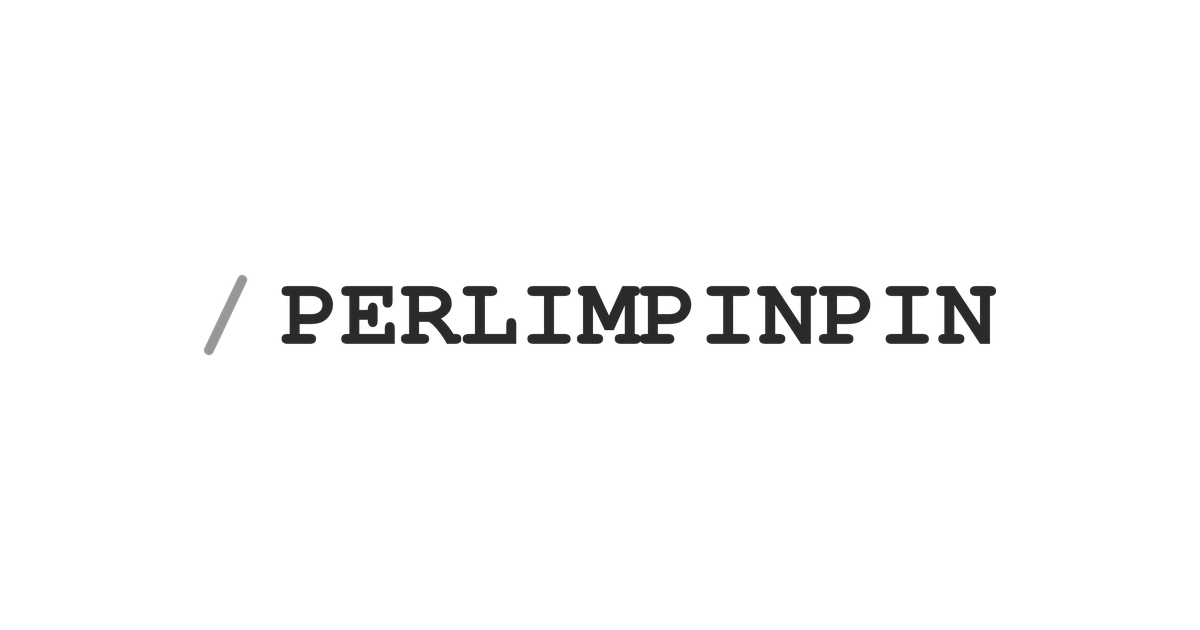
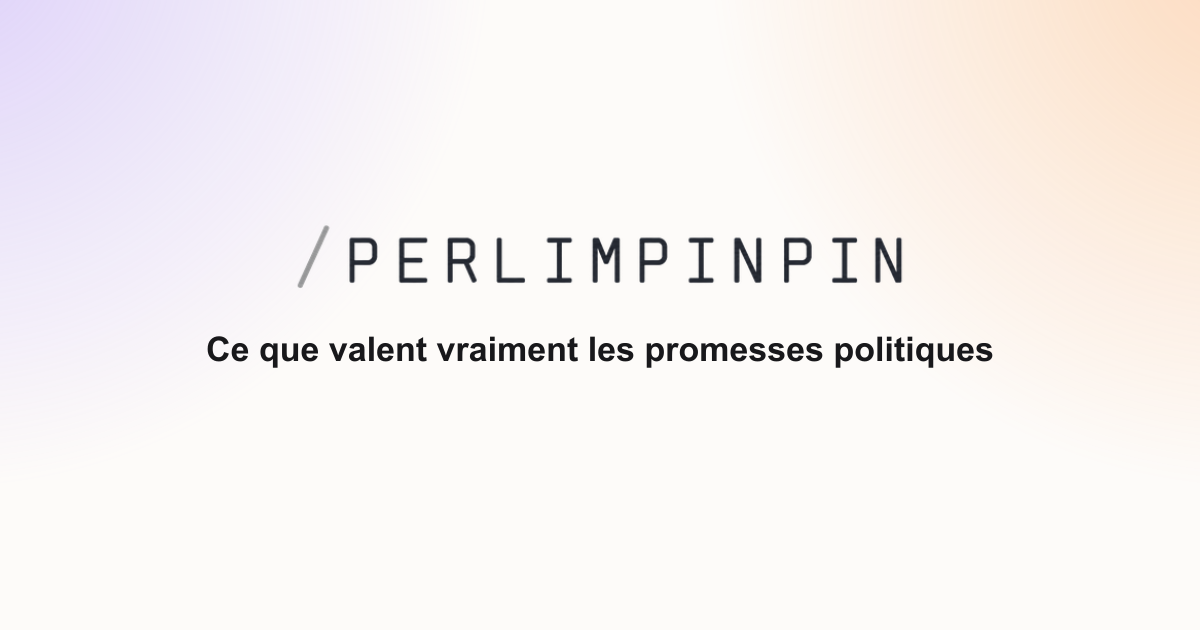
Améliore l'image d'aperçu de lien (og:image / twitter:image)
Remplace l'image OG/Twitter existante (simple wordmark sur fond blanc)
par une version alignée sur la charte : dégradé ivoire/lavande/pêche du
site, logo centré et accroche de la page d'accueil ("Ce que valent
vraiment les promesses politiques"). Ajoute og:image:alt / twitter:
image:alt via opengraph-image.alt.txt et twitter-image.alt.txt, et
enrichit les metadata openGraph/twitter de layout.js (title,
description, site_name, locale, twitter:card) qui n'étaient pas
définis jusqu'ici.

Ajoute aussi autoPort à .claude/launch.json pour que les previews de
dev retombent sur un port libre quand 3000 est déjà pris par une autre
session.

Changed region(s): [[0.1542, 0.3619, 0.8325, 0.573], [0.74, 0.0, 1.0, 0.5127], [0.0, 0.0, 0.185, 0.3619]]

diff --git a/src/app/layout.js b/src/app/layout.js
@@ -24,11 +24,31 @@ const fraunces = Fraunces({
   style: ["normal"],
 });
 
+const DESCRIPTION =
+  "Perlimpinpin évalue le réalisme et la faisabilité des propositions politiques des candidats à la présidentielle.";
+
+// Pas de champ `images` ici : src/app/opengraph-image.png et twitter-image.png
+// (convention de fichier Next.js, + leurs .alt.txt) fournissent déjà og:image
+// et twitter:image avec une URL absolue (résolue via metadataBase) — un champ
+// `images` posé ici serait ignoré (le fichier a toujours priorité) et donc
+// une source de confusion, pas juste redondant.
 export const metadata = {
   metadataBase: new URL("https://perlimpinpin.ai"),
   title: "Perlimpinpin",
-  description:
-    "Perlimpinpin évalue le réalisme et la faisabilité des propositions politiques des candidats à la présidentielle.",
+  description: DESCRIPTION,
+  openGraph: {
+    title: "Perlimpinpin",
+    description: DESCRIPTION,
+    url: "https://perlimpinpin.ai",
+    siteName: "Perlimpinpin",
+    locale: "fr_FR",
+    type: "website",
+  },
+  twitter: {
+    card: "summary_large_image",
+    title: "Perlimpinpin",
+    description: DESCRIPTION,
+  },
 };
 
 export default function RootLayout({ children }) {
